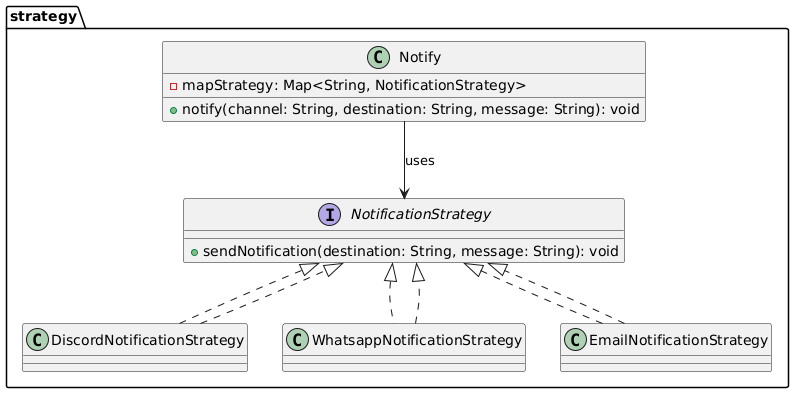
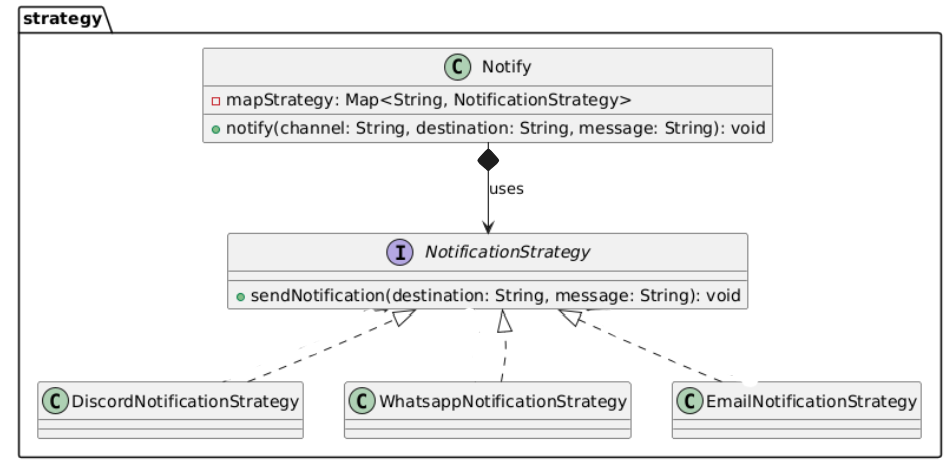
Ajustes solicitados na 1ª avaliação do professor

Changed region(s): [[0.0, 0.0, 0.9975, 1.0]]

diff --git a/README.md b/README.md
@@ -16,27 +16,33 @@ There are 3 different types of design patterns:
 
 ## Patterns
 
-1.1 - Singleton - [access here](./singleton/DatabaseSingleton.Java)
-1.2 - AntiPattern - [access here](./singleton/AntiPatterns.Java)
-1.3 - UML - [access here](./singleton/singletonUMLExp.png)
-1.4 - Explanation - [access here](./singleton/Singleton.MD)
+### Singleton
 
-2.1 - Composite - [access here](./composite/Composite.Java)
-2.2 - AntiPatter - [access here](./composite/AntiPatterns.Java)
-2.3 - UML - [access here](./composite/compositeUML.png)
-2.4 - Explanation - [access here](./composite/Composite.MD)
+* 1.1 - Singleton - [access here](./singleton/DatabaseSingleton.Java)
+* 1.2 - AntiPattern - [access here](./singleton/AntiPatterns.Java)
+* 1.3 - UML - [access here](./singleton/singletonUMLExp.png)
+* 1.4 - Explanation - [access here](./singleton/Singleton.MD)
 
-3.4 - Factory - [access here](./factory/StoreKnife.Java)  
-3.5 - AntiPattern - [access here](./factory/AntiPatternFactory.Java)  
-3.6 - UML - [access here](./factory/factoryUML.png)
-3.7 - Explanation - [access here](./factory/Factory.MD)
+### Composite
+* 2.1 - Composite - [access here](./composite/Composite.Java)
+* 2.2 - AntiPatter - [access here](./composite/AntiPatterns.Java)
+* 2.3 - UML - [access here](./composite/compositeUML.png)
+* 2.4 - Explanation - [access here](./composite/Composite.MD)
 
-4.7 - Strategy - [access here](./strategy/Strategy.Java)  
-4.8 - AntiPattern - [access here](./strategy/AntiPatterns.Java)  
-4.9 - UML - [access here](./strategy/strategyUML.png)
-4.10 - Explanation - [access here](./strategy/Strategy.MD)
+### Factory
+* 3.4 - Factory - [access here](./factory/StoreKnife.Java)  
+* 3.5 - AntiPattern - [access here](./factory/AntiPatternFactory.Java)  
+* 3.6 - UML - [access here](./factory/factoryUML.png)
+* 3.7 - Explanation - [access here](./factory/Factory.MD)
 
-5.10 - Observer - [access here](./observer/Blog.Java)  
-5.11 - AntiPattern - [access here](./observer/AntiPatternObserver.Java)  
-5.12 - UML - [access here](./observer/observerUML.png)
-5.13 - Explanation - [access here](./observer/Observer.MD)
+### Strategy
+* 4.7 - Strategy - [access here](./strategy/Strategy.Java)  
+* 4.8 - AntiPattern - [access here](./strategy/AntiPatterns.Java)  
+* 4.9 - UML - [access here](./strategy/strategyUML.png)
+* 4.10 - Explanation - [access here](./strategy/Strategy.MD)
+
+### Observer
+* 5.10 - Observer - [access here](./observer/Blog.Java)  
+* 5.11 - AntiPattern - [access here](./observer/AntiPatternObserver.Java)  
+* 5.12 - UML - [access here](./observer/observerUML.png)
+* 5.13 - Explanation - [access here](./observer/Observer.MD)

diff --git a/composite/Composite.MD b/composite/Composite.MD
@@ -44,9 +44,7 @@ HostelInterface defines the method public String makeBed(), which ensures that b
 
 ## UML
 
-
-![alt text](compositeUML.png)
-
+![alt text](image-1.png)
 
 ## Anti-Patterns
 
@@ -80,3 +78,6 @@ https://www.coursera.org/learn/design-patterns/lecture/hWt11/2-1-3-singleton-pat
 https://www.youtube.com/watch?v=x9h8MgAvi_I
 
 https://refactoring.guru/design-patterns/singleton/java/example
+
+
+modificar a agregação para que seja o objeto permeavel. 

diff --git a/observer/Observer.MD b/observer/Observer.MD
@@ -19,7 +19,8 @@ All registered Observers are notified and react accordingly through the update()
 
 ## UML
 
-![alt text](observerUML.png)
+
+![alt text](image.png)
 
 
 ## Anti-Patterns
@@ -43,3 +44,6 @@ Blog
 https://www.coursera.org/learn/design-patterns/lecture/LIUcy/2-1-4-factory-method-pattern
 
 https://refactoring.guru/design-patterns/observer
+
+
+seta do blog é pontilhada 
